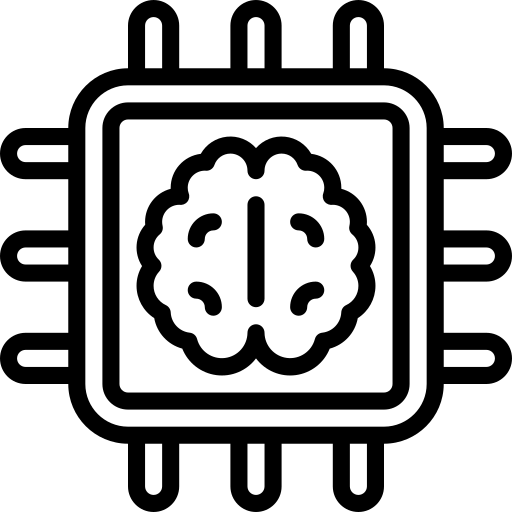
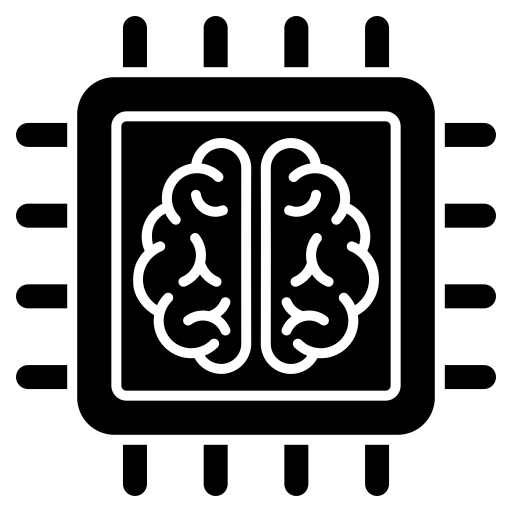
update what we do

diff --git a/index.html b/index.html
@@ -8,7 +8,7 @@
     <link rel="preconnect" href="https://fonts.googleapis.com">
     <link rel="preconnect" href="https://fonts.gstatic.com" crossorigin>
     <link href="https://fonts.googleapis.com/css2?family=Inter:wght@300;400;500;600&display=swap" rel="stylesheet">
-    <link rel="stylesheet" href="styles.css?v=14">
+    <link rel="stylesheet" href="styles.css?v=29">
 </head>
 <!-- Google tag (gtag.js) -->
 <script async src="https://www.googletagmanager.com/gtag/js?id=G-WLSPG4KE3Q"></script>
@@ -37,7 +37,8 @@
                     talk <i class="arrow-icon">&nearr;</i></a>
             </div>
             <div class="nav-actions">
-                <button type="button" class="nav-email" data-email="hey@kerneltheory.com" aria-label="Copy email address hey@kerneltheory.com">
+                <button type="button" class="nav-email" data-email="hey@kerneltheory.com"
+                    aria-label="Copy email address hey@kerneltheory.com">
                     <span class="nav-email-default">hey@kerneltheory.com</span>
                     <span class="nav-email-copied">Copied <i class="check-icon" aria-hidden="true">✓</i></span>
                 </button>
@@ -64,19 +65,26 @@
                 <div class="hero-logos" aria-label="Clients we've worked with">
                     <div class="hero-logos-track">
                         <div class="client-logo"><img src="images/client-1-logo.png" alt="IIHS"></div>
-                        <div class="client-logo"><span class="client-logo--text">MyMakaan</span></div>
+                        <div class="client-logo"><span class="client-logo--text client-logo--mymakaan">MyMakaan</span>
+                        </div>
                         <div class="client-logo"><img src="images/client-2-logo.png" alt="MyCaptain"></div>
-                        <div class="client-logo"><img src="images/client-3-logo.png" alt="Quik Referral" class="client-logo--quik"></div>
-                        <div class="client-logo"><span class="client-logo--text">AppC8</span></div>
-                        <div class="client-logo client-logo--mad"><img src="images/manaba-footer.png" alt="Mad About Digital"></div>
+                        <div class="client-logo"><img src="images/client-3-logo.png" alt="Quik Referral"
+                                class="client-logo--quik"></div>
+                        <div class="client-logo"><span class="client-logo--text client-logo--appc8">AppC8</span></div>
+                        <div class="client-logo client-logo--mad"><img src="images/manaba-footer.png"
+                                alt="Mad About Digital"></div>
                         <!-- duplicate set for seamless loop -->
                         <div class="client-logo" aria-hidden="true"><img src="images/client-1-logo.png" alt=""></div>
-                        <div class="client-logo" aria-hidden="true"><span class="client-logo--text">MyMakaan</span>
+                        <div class="client-logo" aria-hidden="true"><span
+                                class="client-logo--text client-logo--mymakaan">MyMakaan</span>
                         </div>
                         <div class="client-logo" aria-hidden="true"><img src="images/client-2-logo.png" alt=""></div>
-                        <div class="client-logo" aria-hidden="true"><img src="images/client-3-logo.png" alt="" class="client-logo--quik"></div>
-                        <div class="client-logo" aria-hidden="true"><span class="client-logo--text">AppC8</span></div>
-                        <div class="client-logo client-logo--mad" aria-hidden="true"><img src="images/manaba-footer.png" alt=""></div>
+                        <div class="client-logo" aria-hidden="true"><img src="images/client-3-logo.png" alt=""
+                                class="client-logo--quik"></div>
+                        <div class="client-logo" aria-hidden="true"><span
+                                class="client-logo--text client-logo--appc8">AppC8</span></div>
+                        <div class="client-logo client-logo--mad" aria-hidden="true"><img src="images/manaba-footer.png"
+                                alt=""></div>
                     </div>
                 </div>
             </div>
@@ -91,91 +99,110 @@
                     want clarity, ownership, and systems that actually work.</span></h2>
 
             <div class="service-cards">
-                <!-- AI & Automation -->
+                <!-- 1. AI integration -->
                 <article class="service-card service-card--ai" data-color="orange">
                     <div class="service-card-icon" aria-hidden="true">
-                        <img src="images/brain-cpu.png" alt="AI & Automation" />
+                        <img src="images/brain-cpu.png" alt="" />
                     </div>
                     <div class="service-card-text-wrapper">
-                        <h3 class="service-card-title">AI &amp; Automation</h3>
-                        <p class="service-card-text">Agentic workflows and operational systems that do real work.</p>
+                        <h3 class="service-card-title">Integrate AI into your product</h3>
+                        <p class="service-card-text">Agentic systems integration and automation tailored to how you
+                            ship.
+                        </p>
                     </div>
                 </article>
 
-                <!-- Web App -->
+                <!-- 2. Web + Mobile -->
                 <article class="service-card service-card--web" data-color="yellow">
                     <div class="service-card-icon" aria-hidden="true">
-                        <img src="images/web-app.png" alt="Web App" />
+                        <img src="images/web-app.png" alt="" />
                     </div>
                     <div class="service-card-text-wrapper">
-                        <h3 class="service-card-title">Web App</h3>
-                        <p class="service-card-text">Scalable, full-stack applications built on solid foundations.</p>
+                        <h3 class="service-card-title">Web and mobile app development</h3>
+                        <p class="service-card-text">Full-stack web and native or cross-platform mobile—from first
+                            release through scale.</p>
                     </div>
                 </article>
 
-                <!-- Mobile App -->
-                <article class="service-card service-card--mobile" data-color="blue">
+                <!-- 3. Fix vibe-coded apps -->
+                <article class="service-card service-card--vibe" data-color="cyan">
                     <div class="service-card-icon" aria-hidden="true">
-                        <img src="images/mobile-app.webp" alt="Mobile App" />
+                        <img src="images/vibe-app.png" alt="" />
                     </div>
                     <div class="service-card-text-wrapper">
-                        <h3 class="service-card-title">Mobile App</h3>
-                        <p class="service-card-text">Native and cross-platform mobile experiences that work.</p>
+                        <h3 class="service-card-title">Fix vibe-coded applications</h3>
+                        <p class="service-card-text">Stabilize rushed builds, refactor safely, and make releases
+                            predictable.</p>
                     </div>
                 </article>
 
-                <!-- Fractional CTO / CPO -->
+                <!-- 4. Product Discovery report -->
+                <article class="service-card service-card--discovery" data-color="purple">
+                    <div class="service-card-icon" aria-hidden="true">
+                        <img src="images/product-research.png" alt="" />
+                    </div>
+                    <div class="service-card-text-wrapper">
+                        <h3 class="service-card-title">Product discovery report</h3>
+                        <p class="service-card-text">Structured research and a clear view on what to build next.</p>
+                    </div>
+                </article>
+
+                <!-- 5. Fractional CTO / CPO -->
                 <article class="service-card service-card--fractional" data-color="red">
                     <div class="service-card-icon" aria-hidden="true">
-                        <svg viewBox="0 0 48 48" fill="none" stroke="currentColor" stroke-width="1.5"
-                            stroke-linecap="round" stroke-linejoin="round">
-                            <!-- Man + Woman Icon -->
-                            <!-- Left person (woman) -->
-                            <circle cx="14" cy="10" r="3" />
-                            <path d="M11 15V20C11 22 12 24 14 24C16 24 17 22 17 20V15" />
-                            <path d="M11 20L9 28M17 20L19 28" />
-                            <!-- Right person (man) -->
-                            <circle cx="34" cy="10" r="3" />
-                            <path d="M31 15V22C31 24 32 26 34 26C36 26 37 24 37 22V15" />
-                            <path d="M31 22L28 32M37 22L40 32" />
-                            <!-- Connection line -->
-                            <path d="M17 17L31 17" stroke="currentColor" stroke-width="1.5" opacity="0.5" />
-                        </svg>
+                        <img src="images/cto-cpo.png" alt="" />
                     </div>
                     <div class="service-card-text-wrapper">
                         <h3 class="service-card-title">Fractional CTO / CPO</h3>
-                        <p class="service-card-text">Ongoing product and engineering leadership for your team.</p>
+                        <p class="service-card-text">Embedded leadership for roadmap, architecture, and team execution.
+                        </p>
                     </div>
                 </article>
 
-                <!-- DevOps -->
+                <!-- 6. Automation & workflow -->
                 <article class="service-card service-card--devops" data-color="green">
                     <div class="service-card-icon" aria-hidden="true">
-                        <img src="images/devops.webp" alt="DevOps & Infrastructure" />
+                        <img src="images/automation.png" alt="" />
                     </div>
                     <div class="service-card-text-wrapper">
-                        <h3 class="service-card-title">DevOps &amp; Infrastructure</h3>
-                        <p class="service-card-text">Reliable systems, deployment pipelines, and ops automation.</p>
+                        <h3 class="service-card-title">Set up automation and workflow</h3>
+                        <p class="service-card-text">Pipelines and Integrations with Claude
+                            Cowork, OpenAI agent builder, n8n, Zapier, and similar tools.
+                        </p>
                     </div>
                 </article>
 
-                <!-- Product Discovery & Market Research -->
-                <article class="service-card service-card--discovery" data-color="purple">
+                <!-- 7. Browser extensions -->
+                <article class="service-card service-card--extension" data-color="violet">
                     <div class="service-card-icon" aria-hidden="true">
-                        <svg viewBox="0 0 48 48" fill="none" stroke="currentColor" stroke-width="1.5"
-                            stroke-linecap="round" stroke-linejoin="round">
-                            <!-- Search/Research Icon -->
-                            <circle cx="18" cy="20" r="10" />
-                            <path d="M26 28L36 38" />
-                            <line x1="14" y1="20" x2="22" y2="20" />
-                            <line x1="18" y1="16" x2="18" y2="24" />
-                            <path d="M36 10C38.7614 10 41 7.76142 41 5" />
-                            <path d="M41 5C41 7.76142 43.2386 10 46 10" />
-                        </svg>
+                        <img src="images/browser-extension.png" alt="" />
                     </div>
                     <div class="service-card-text-wrapper">
-                        <h3 class="service-card-title">Product Discovery &amp; Research</h3>
-                        <p class="service-card-text">Validate ideas, understand markets, and define what to build.</p>
+                        <h3 class="service-card-title">Browser extensions</h3>
+                        <p class="service-card-text">Extensions for Chrome, Edge, and Firefox that fit your product.</p>
+                    </div>
+                </article>
+
+                <!-- 8. Data engineering & analytics -->
+                <article class="service-card service-card--data" data-color="blue-dark">
+                    <div class="service-card-icon" aria-hidden="true">
+                        <img src="images/data-analytics.png" alt="" />
+                    </div>
+                    <div class="service-card-text-wrapper">
+                        <h3 class="service-card-title">Data engineering and analytics</h3>
+                        <p class="service-card-text">Pipelines, models, and reporting your team can actually use.</p>
+                    </div>
+                </article>
+
+                <!-- 9. GTM -->
+                <article class="service-card service-card--gtm" data-color="orange-deep">
+                    <div class="service-card-icon" aria-hidden="true">
+                        <img src="images/gtm-strategy.png" alt="" />
+                    </div>
+                    <div class="service-card-text-wrapper">
+                        <h3 class="service-card-title">Go-to-market strategy</h3>
+                        <p class="service-card-text">Positioning, experiments, and rollout support from plan to
+                            execution.</p>
                     </div>
                 </article>
             </div>

diff --git a/styles.css b/styles.css
@@ -359,7 +359,6 @@ h6 {
     max-height: 56px;
     width: auto;
     object-fit: contain;
-    filter: grayscale(1);
     opacity: 0.7;
     transition: opacity 0.3s;
 }
@@ -369,7 +368,7 @@ h6 {
 }
 
 .client-logo--mad img {
-    filter: grayscale(1) drop-shadow(0 8px 20px rgba(0, 0, 0, 0.6)) drop-shadow(0 2px 6px rgba(0, 0, 0, 0.5));
+    filter: drop-shadow(0 8px 20px rgba(0, 0, 0, 0.6)) drop-shadow(0 2px 6px rgba(0, 0, 0, 0.5));
 }
 
 .client-logo img.client-logo--quik {
@@ -387,6 +386,19 @@ h6 {
 
 .client-logo--text:hover {
     opacity: 1;
+}
+
+.client-logo--text.client-logo--appc8,
+.client-logo--text.client-logo--mymakaan {
+    font-weight: 700;
+}
+
+.client-logo--text.client-logo--appc8 {
+    color: #dc2928;
+}
+
+.client-logo--text.client-logo--mymakaan {
+    color: #9ad5b5;
 }
 
 /* ---------- What we do / Service Cards ---------- */
@@ -411,7 +423,8 @@ h6 {
 
 .service-card {
     position: relative;
-    display: flex;
+    display: grid;
+    grid-template-columns: 1fr 1fr;
     align-items: stretch;
     border: 1.5px solid #d0d0d0;
     border-radius: 16px;
@@ -440,9 +453,9 @@ h6 {
     opacity: 1;
 }
 
-/* Icon container - 50% width */
+/* Equal halves (grid 1fr 1fr); text cell still white edge-to-edge */
 .service-card-icon {
-    flex: 0 0 50%;
+    min-width: 0;
     display: flex;
     align-items: center;
     justify-content: center;
@@ -459,12 +472,11 @@ h6 {
     transition: transform 0.4s ease, color 0.35s ease;
 }
 
-/* Text container - 50% width */
 .service-card-text-wrapper {
-    flex: 0 0 50%;
+    min-width: 0;
     display: flex;
     flex-direction: column;
-    justify-content: center;
+    justify-content: flex-start;
     padding: 2rem 1.5rem;
     background: #fff;
 }
@@ -498,26 +510,9 @@ h6 {
     background: linear-gradient(135deg, rgba(251, 192, 45, 0.08) 0%, rgba(251, 192, 45, 0.04) 100%);
 }
 
-.service-card--web:hover .service-card-icon svg {
-    color: #fbc02d;
-}
-
-.service-card--mobile:hover {
-    border-color: #2196f3;
-    background: linear-gradient(135deg, rgba(33, 150, 243, 0.08) 0%, rgba(33, 150, 243, 0.04) 100%);
-}
-
-.service-card--mobile:hover .service-card-icon svg {
-    color: #2196f3;
-}
-
 .service-card--fractional:hover {
     border-color: #f44336;
     background: linear-gradient(135deg, rgba(244, 67, 54, 0.08) 0%, rgba(244, 67, 54, 0.04) 100%);
-}
-
-.service-card--fractional:hover .service-card-icon svg {
-    color: #f44336;
 }
 
 .service-card--devops:hover {
@@ -525,17 +520,29 @@ h6 {
     background: linear-gradient(135deg, rgba(76, 175, 80, 0.08) 0%, rgba(76, 175, 80, 0.04) 100%);
 }
 
-.service-card--devops:hover .service-card-icon svg {
-    color: #4caf50;
-}
-
 .service-card--discovery:hover {
     border-color: #9c27b0;
     background: linear-gradient(135deg, rgba(156, 39, 176, 0.08) 0%, rgba(156, 39, 176, 0.04) 100%);
 }
 
-.service-card--discovery:hover .service-card-icon svg {
-    color: #9c27b0;
+.service-card--vibe:hover {
+    border-color: #00bcd4;
+    background: linear-gradient(135deg, rgba(0, 188, 212, 0.08) 0%, rgba(0, 188, 212, 0.04) 100%);
+}
+
+.service-card--extension:hover {
+    border-color: #7e57c2;
+    background: linear-gradient(135deg, rgba(126, 87, 194, 0.08) 0%, rgba(126, 87, 194, 0.04) 100%);
+}
+
+.service-card--data:hover {
+    border-color: #1565c0;
+    background: linear-gradient(135deg, rgba(21, 101, 192, 0.08) 0%, rgba(21, 101, 192, 0.04) 100%);
+}
+
+.service-card--gtm:hover {
+    border-color: #ff6f00;
+    background: linear-gradient(135deg, rgba(255, 111, 0, 0.08) 0%, rgba(255, 111, 0, 0.04) 100%);
 }
 
 /* Icon hover animation */
@@ -557,17 +564,15 @@ h6 {
     }
 
     .service-card {
-        flex-direction: column;
+        grid-template-columns: 1fr;
     }
 
     .service-card-icon {
-        flex: 0 0 auto;
         padding: 2rem 2.5rem;
         border-bottom: 1.5px solid #d0d0d0;
     }
 
     .service-card-text-wrapper {
-        flex: 0 0 auto;
         padding: 1.5rem 2rem;
     }
 }
